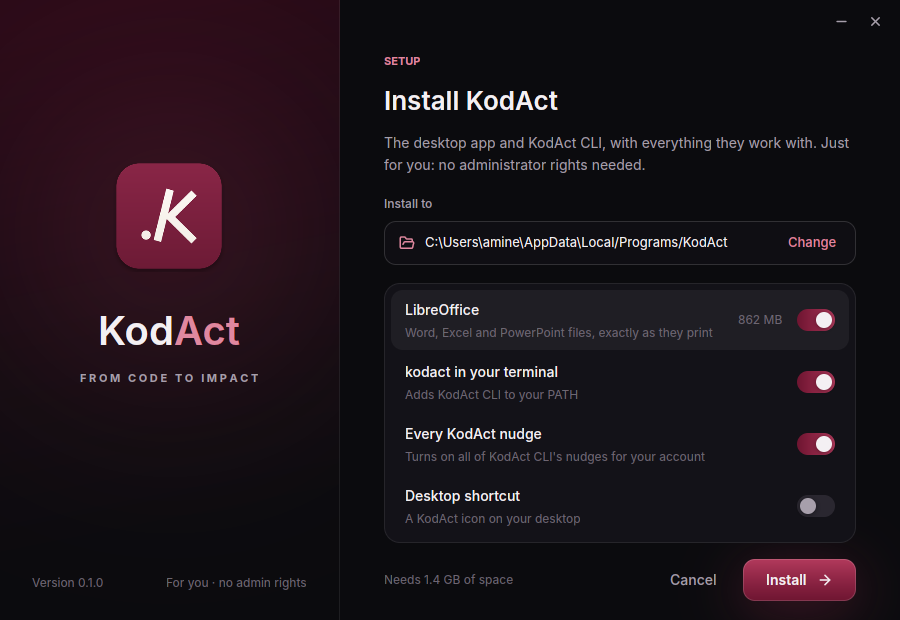
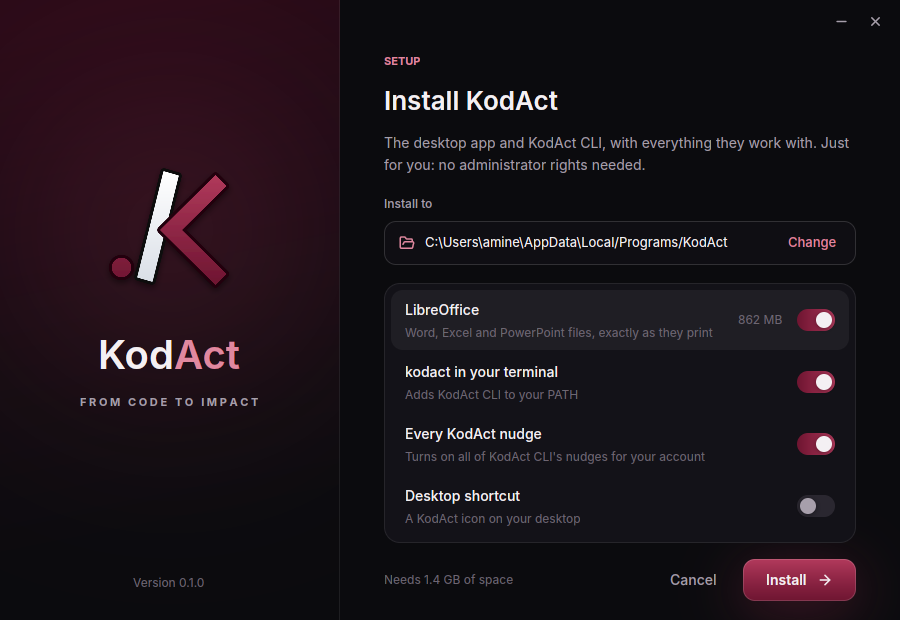
Setup: KodAct's ./< mark, the version alone at the bottom
The setup's left panel showed the app icon; it now shows KodAct's mark,
assets/brand/kodact-mark-burgundy.svg as it is, rendered at twice its
size (installer/setup/mark.png). Under it, the version, centred; the
'For you · no admin rights' line is gone. The setup .exe keeps the app
icon (assets/kodact.ico).

Claude-Session: https://claude.ai/code/session_01XjPJN8J5xgkw5nv4yKUWVa

diff --git a/installer/setup/ui.rs b/installer/setup/ui.rs
@@ -78,7 +78,9 @@ fn font() -> &'static str {
     }
 }
 
-const LOGO: &[u8] = include_bytes!("logo.png");
+/// KodAct's ./< mark, `assets/brand/kodact-mark-burgundy.svg` as it is, at twice its size
+/// (`rsvg-convert -w 560 -h 544 assets/brand/kodact-mark-burgundy.svg -o installer/setup/mark.png`).
+const LOGO: &[u8] = include_bytes!("mark.png");
 
 /// The few icons the setup draws (Lucide, ISC licence, from the app's own set).
 struct Icons;
@@ -495,12 +497,15 @@ impl Setup {
                     .items_center()
                     .pt(px(160.))
                     .child(
-                        img(self.logo.clone()).size(px(112.)).with_animation(
-                            "mark-in",
-                            Animation::new(Duration::from_millis(700))
-                                .with_easing(gpui::ease_out_quint()),
-                            |el, d| el.opacity(d),
-                        ),
+                        img(self.logo.clone())
+                            .w(px(140.))
+                            .h(px(136.))
+                            .with_animation(
+                                "mark-in",
+                                Animation::new(Duration::from_millis(700))
+                                    .with_easing(gpui::ease_out_quint()),
+                                |el, d| el.opacity(d),
+                            ),
                     )
                     .child(
                         div()
@@ -527,11 +532,10 @@ impl Setup {
                     .right(px(32.))
                     .bottom(px(28.))
                     .flex()
-                    .justify_between()
+                    .justify_center()
                     .text_size(px(12.))
                     .text_color(Ink::subtle())
-                    .child(version)
-                    .child("For you · no admin rights"),
+                    .child(version),
             )
     }
 
